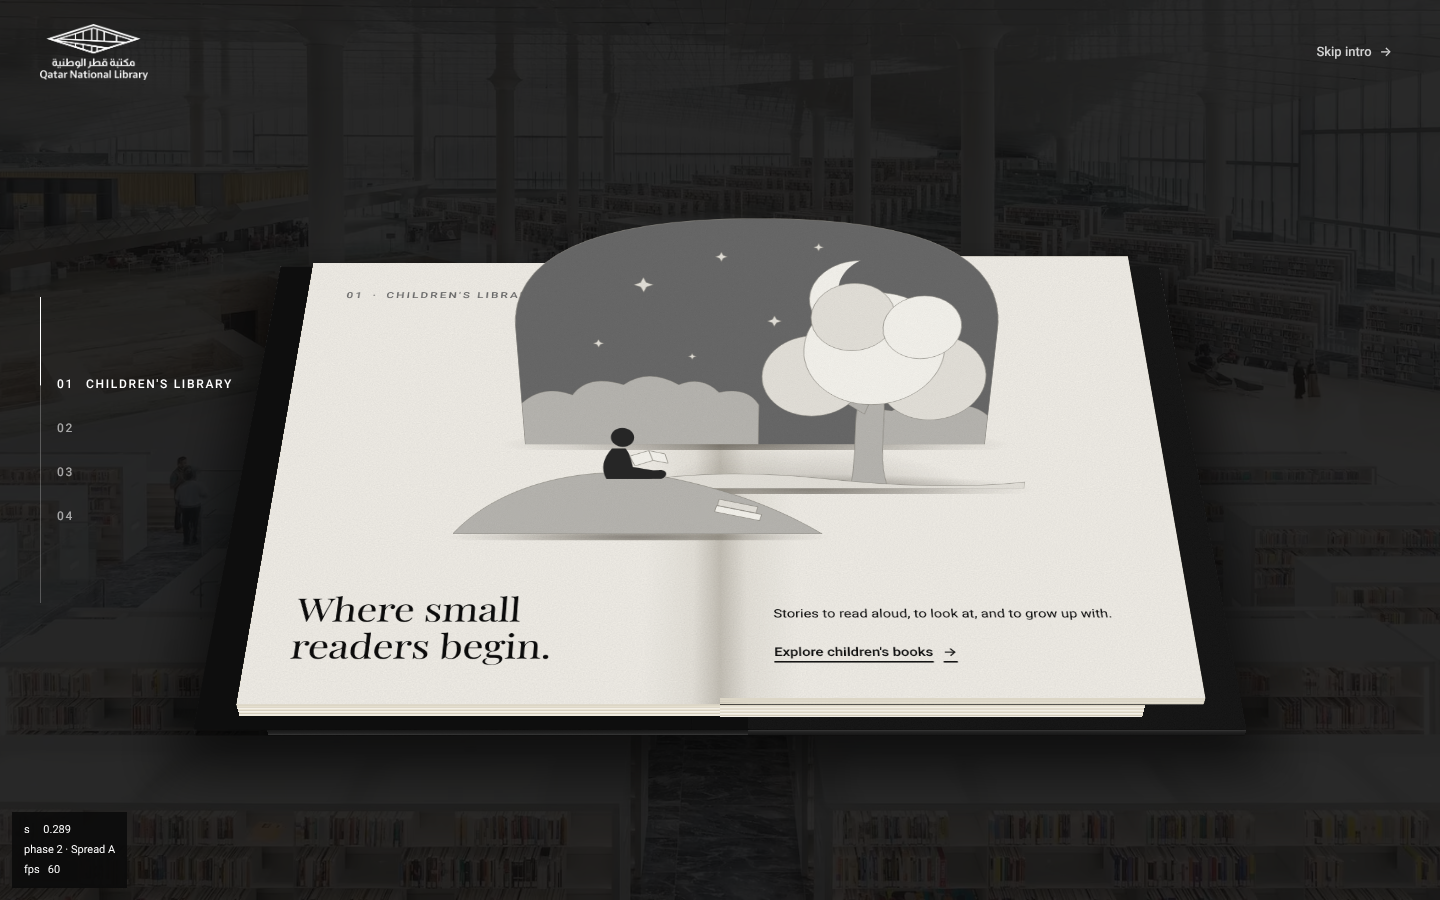
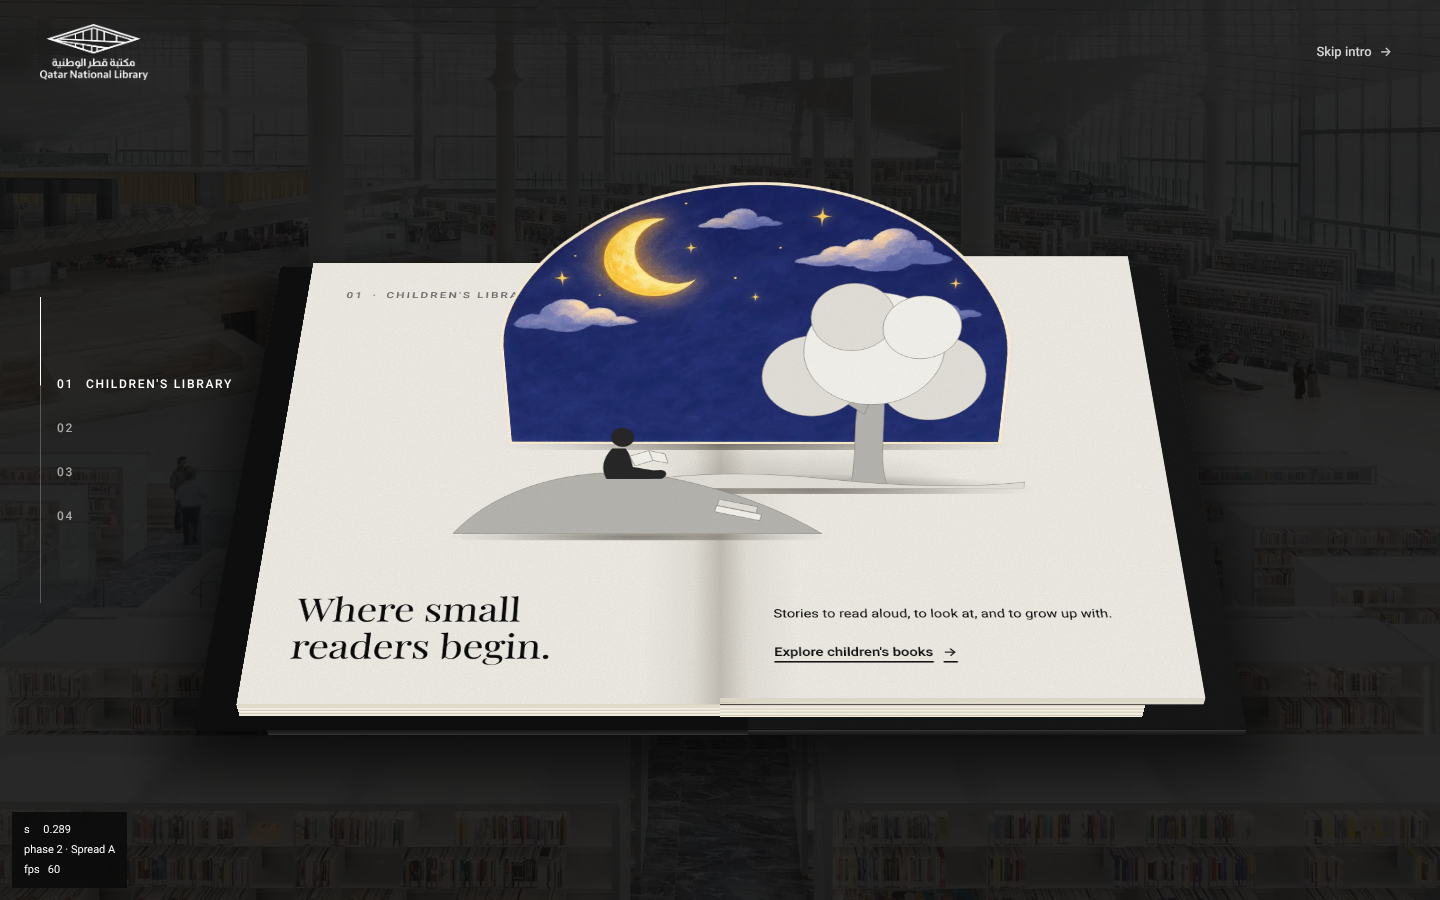
Fit first supplied pop-up artwork (Spread A backdrop); artwork step in asset pipeline
Claude-Session: https://claude.ai/code/session_01NJhkhHsdtjkGgkng91Ef6F

Changed region(s): [[0.3438, 0.1867, 0.7188, 0.4978]]

diff --git a/src/data/spreads.ts b/src/data/spreads.ts
@@ -58,7 +58,7 @@ export const spreads: Spread[] = [
     body_ar: null,
     link: { href: '#children', label_en: "Explore children's books", label_ar: null },
     layers: [
-      { src: '/popups/spreadA-layer1.svg', base: 0.47, x: 0.08, w: 1.12, ratio: 540 / 880, stand: 86, mobile: true },
+      { src: '/popups/spreadA-layer1.webp', base: 0.47, x: 0.08, w: 1.12, ratio: 797 / 1200, stand: 86, mobile: true },
       { src: '/popups/spreadA-layer2.svg', base: 0.57, x: 0.2, w: 0.96, ratio: 460 / 720, stand: 82 },
       { src: '/popups/spreadA-layer3.svg', base: 0.67, x: -0.18, w: 0.81, ratio: 230 / 560, stand: 78, mobile: true },
     ],
